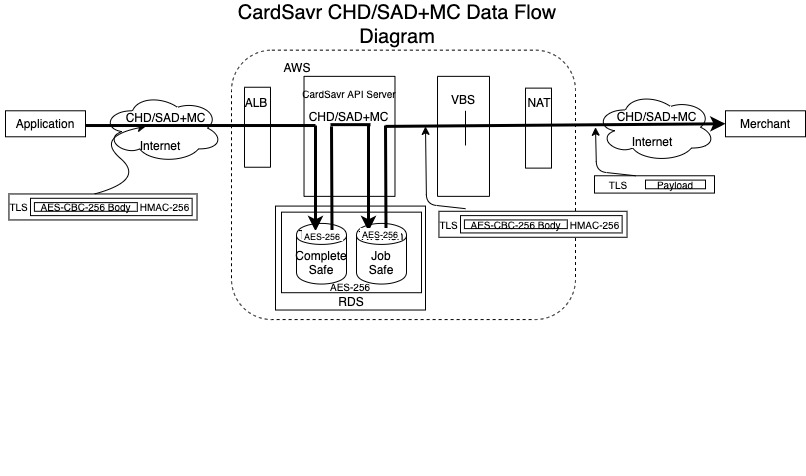
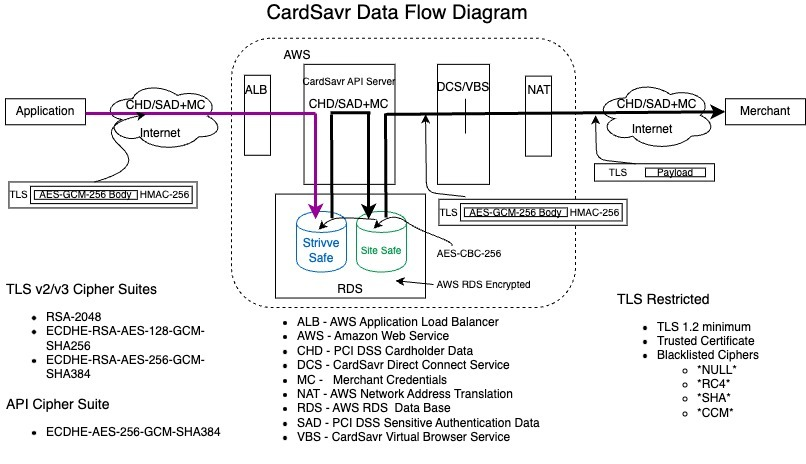
Update Technical Security Overview

diff --git a/src/pages/guides/technical-security/index.md b/src/pages/guides/technical-security/index.md
@@ -36,128 +36,150 @@ CardSavr® operates within isolated AWS infrastructure --- separate
 accounts, VPCs, Security Groups, IAM policies, and Network Access
 Control Lists protect each Cardholder Data Environment (CDE).
 
-### In-transit protection
+**In-transit protection**. All traffic uses TLS 1.2 minimum with FIPS 140-2 Suite B ciphers. Amazon CA certificates with RSA 2048-bit keys establish secure sessions. The preferred ECDHE 256-bit cipher suite delivers perfect forward secrecy with AES-256-GCM encryption and SHA-256 hashing for integrity.
 
--   TLS 1.2 minimum
--   FIPS 140-2 Suite B ciphers
--   Amazon CA certificates with RSA 2048-bit keys
--   Preferred ECDHE 256-bit cipher suite
--   AES-256-GCM encryption
--   SHA-256 hashing
--   Perfect forward secrecy
+**Infiltration defense**. AWS Application Load Balancer with Security Group Policies and NACLs blocks unauthorized inbound traffic.
 
-### Infiltration defense
+**Exfiltration defense**. VPC subnet NACLs control outbound data movement. PCI-authorized vendors perform recurring penetration tests and network scans to verify ongoing protection.  
 
--   AWS Application Load Balancer
--   Security Group Policies
--   Network Access Control Lists (NACLs)
+**Merchant-site connections**. Autonomous browsers communicating with merchant sites enforce TLS 1.2 or 1.3 with strong cipher suites, accept only trusted Certificate Authority certificates, and reject self-signed certificates   
 
-### Exfiltration defense
-
--   VPC subnet NACL controls
--   Recurring PCI-authorized penetration testing
--   Ongoing network scans
-
-### Merchant-site connections
-
-Autonomous browsers:
-
--   Enforce TLS 1.2 or 1.3
--   Accept trusted CA certificates only
--   Reject self-signed certificates
 
 ------------------------------------------------------------------------
 
-# API Security
+# API Security: Authentication, Integrity, and Confidentialality
 
 ## Dual Identity Authentication
 
 Every API interaction requires two-factor identity verification ---
 application and user authenticate independently.
 
--   HMAC signing with 256-bit shared secret keys
--   Unique integrator keys issued via Partner Portal
--   Configurable key rotation
--   ECDHE key exchange creates ephemeral session keys
+Applications sign all requests and responses using HMAC with 256-bit shared secret keys. Each approved application receives a unique key from the CardSavr® Partner Portal, rotated per partner-configured schedules. At login, an ECDHE key exchange creates an ephemeral session key for all subsequent signing and encryption.
 
-## Zero-Knowledge Authentication
+**Zero-knowledge authentication**. Passwords never transmit over the network. CardSavr® employs a zero-knowledge proof method modeled on Kerberos 5 — user passwords generate PBKDF2 keys that sign server-provided salts for verification. An attacker intercepting traffic discovers only application and user names.
 
--   Modeled on Kerberos 5
--   PBKDF2-derived signing keys
--   Passwords never transmitted
--   Intercepted traffic reveals only usernames
 
 ------------------------------------------------------------------------
 
 ## Data Integrity and Confidentiality
 
--   HMAC signatures on every request and response
--   AES-256-GCM encryption
--   Ephemeral session keys
--   Perfect forward secrecy
+**Integrity**. HMAC signatures authenticate every request and response.
+
+**Confidentiality**. AES-256-GCM encryption using ephemeral session keys protects all payload data. Perfect forward secrecy ensures that compromising one session key reveals nothing about past or future sessions.
+
 
 ------------------------------------------------------------------------
 
 ## Write-Only Exfiltration Protection
 
--   PAN and CVV are write-only (POST only)
--   No read-back capability --- including Strivve systems
--   Referenced via Payment Account Reference (PAR)
--   Merchant credentials follow same write-only restriction
+Payment card PAN and CVV are write-only properties — POST requests only. No application, including Strivve's own systems, reads these values back. Cards are referenced via the industry-standard Payment Account Reference (PAR) mechanism. Merchant credentials follow the same write-only restriction, preventing accidental or malicious disclosure.
 
 ------------------------------------------------------------------------
+
+## Role-Based Access Control
+Authenticated application names and usernames map to specific roles. Each API endpoint and property enforces role-restricted access — no single credential grants unrestricted platform access.
+
 
 # Persistent Data Security
 
 ## Database-Level Protection
 
--   AWS Aurora Postgres RDS
--   Full-database AES-256 encryption
--   AWS KMS-managed key hierarchy
--   One key hierarchy per CDE VPC
+AWS Security Group Policies and NACLs restrict RDS database access to the CardSavr® API server and authorized Strivve tooling. NACLs at subnet boundaries provide additional packet-level control.
+
+The AWS Aurora Postgres RDS service applies full-database AES-256 encryption with keys managed by AWS Key Management Service (KMS), one key hierarchy per CDE VPC.
 
 ------------------------------------------------------------------------
 
-## The Strivve Safe
+## The Strivve Safe: Record-Level Encryption
 
-Each cardholder's data is encrypted individually using AES-256-GCM.
+Beyond database-level encryption, the Strivve Safe encrypts each cardholder's data individually using AES-256-GCM. Each encrypted blob contains credentials for every merchant site where the cardholder placed their card.
 
-Dual-key derivation via PBKDF2 from:
+**Dual-key derivation**. Each cardholder's encryption key derives from two sources mixed via PBKDF2:
 
-1.  Internal environment key (AWS KMS protected)
-2.  Partner-managed cardholder key
+1.  **Internal key** — generated and managed by CardSavr®, protected by AWS KMS
+2.  **Partner key** — generated and maintained by the partner institution
 
-Both keys required for decryption.
+Keys reside in separate environments. Compromising CardSavr® alone does not expose cardholder data. Compromising partner infrastructure alone does not expose cardholder data. Both keys are required for decryption.
 
 ------------------------------------------------------------------------
 
 ## Ephemeral Job Safe
 
--   Unique Job Safe per card placement
--   One-time encryption key
--   Self-destructs on completion
+Each card placement job creates a unique Job Safe containing card authentication data and merchant credentials. A one-time encryption key protects this data and exists only for the job's duration — the key and decrypted data self-destruct on completion.
 
 ------------------------------------------------------------------------
 
 # Cryptography
 
-## TLS Requirements
+## Data In Flight
 
--   Minimum TLS 1.2
--   Safe cipher suites only
--   Perfect forward secrecy
--   Trusted CA validation
+### TLS Protection
+All network traffic with external systems uses TLS per RFC-8447 with these requirements:
 
-## API Encryption Layer
+-   **Minimum version**: TLS 1.2 
+-   **Cipher suites**: Safe cipher suites only; preferred suites enforce perfect forward secrecy 
+-   **Certificate validation**: Only trusted Certificate Authority certificates accepted (client mode)
 
--   HMAC-SHA256 signing
--   AES-256-GCM encryption
--   ECDHE/P256 session key exchange
--   One-time session key per login
+
+### REST API Encryption Layer
+
+Beyond TLS, CardSavr® applies a second encryption layer to all API traffic. Every request and response is signed, verified, and encrypted using HMAC-SHA256 and AES-256-GCM keys.
+At login, an ECDHE/P256 key exchange generates a one-time API session key. This ephemeral key protects all subsequent traffic with perfect forward secrecy — a compromised session key reveals nothing about other sessions.
+
+![CardSavr Protected Data Flow](/images/CardSavrDataFlow.jpg "CardSavr Protected Data Flow") 
+
+
+### API Secret Key
+All encryption and signing operations use a symmetric shared 256-bit key: the API Session Secret Key.
+
+### Decryption
+Response decription follows five steps:
+1. Parse the API response.body.encryptedBody contains Base64-Encrypted-JSON$Base64-IV${Encryption-Method}.  At this time only AES-256-GCM is supported as an encryption method.
+1. Decode Base64-Encrypted-JSON-Body to binary
+1. Decode Base64-IV to binary
+1. Create an AES-256-GCM cipher using the API Session Secret Key and decoded IV
+1. Decrypt the binary body
+
+
+### Encryption
+Applications encrypt request bodies using AES-256-GCM with a 16-byte cryptographically strong initialization vector and the API Session Secret Key:
+```javascript
+request.body.encryptedBody = Base64EncryptedJSON$Base64-IV$aes-256-gcm
+```
+
+### Signing
+
+#### Authorization
+Identifies the integrator:
+```javascript
+"Authorization": "SWCH-HMAC-SHA256 Credentials=" + integrator_name
+```
+#### Nonce
+Current UTC time in milliseconds (replay attack protection):
+```javascript
+"Nonce": UTC_milliseconds
+```
+
+#### Signature
+HMAC-SHA256 of the string-to-sign, base64-encoded:
+```javascript
+StringToSign = relative_URL_path + Authorization + Nonce + request_body
+Signature = Base64(HMAC-SHA256(API_Session_Secret_Key, StringToSign))
+```
+
+### Verification
+Response verification mirrors the signing process. Calculate the expected signature and compare against the Signature response header. A mismatch indicates tampering.
+
+### CardSavr® SDK
+The CardSavr® SDK handles encryption, decryption, signing, and verification automatically. Direct REST API implementations require manual cryptographic operations per the CardSavr® API reference documentation.
+
+## Data At Rest
+
+## Cryptographic Keys
 
 ------------------------------------------------------------------------
-
 # Glossary
+## Acronyms
 
   Acronym   |   Definition
   --------- |----------------------------------------------
@@ -176,6 +198,8 @@ Both keys required for decryption.
   SDK       |Software Development Kit
   TLS       |Transport Layer Security
   VPC       |Virtual Private Cloud
+
+## Key Terms  
 
 ------------------------------------------------------------------------
 
